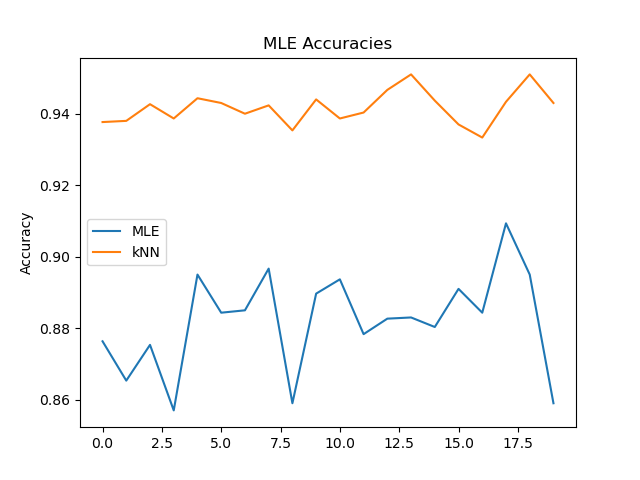
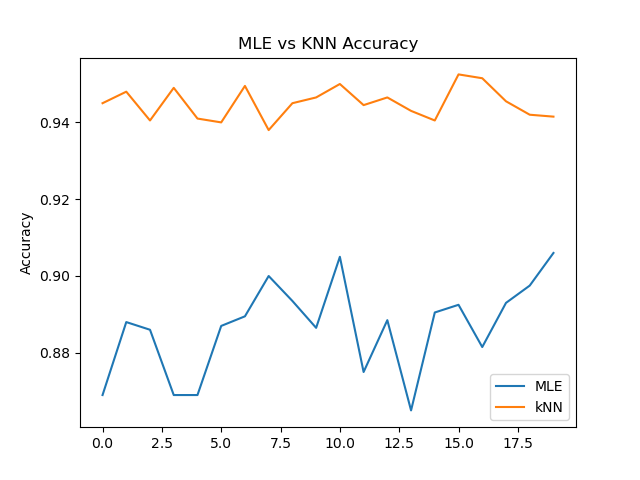
Final changes to project 1

diff --git a/project_1/kNN.py b/project_1/kNN.py
@@ -1,17 +1,27 @@
-import math
+#from scipy.spatial import distance
+#Scipy distance is roughly twice as slow as numpy norm
 import numpy as np
+import math
 from utils import getData
 from tqdm import tqdm
 
-def runKNN(k, norm=np.linalg.norm):
+def runKNN(k, norm='l2'):
     X, Y = getData()
-    Xtrain = X[:7000]
-    Ytrain = Y[:7000]
-    Xtest = X[7000:]
-    Ytest = Y[7000:]
+    Xtrain = X[:8000]
+    Ytrain = Y[:8000]
+    Xtest = X[8000:]
+    Ytest = Y[8000:]
+
+    description = "KNN "
+    if (norm == 'l2'):
+        description += " (L2)"
+    elif (norm == 'l1'):
+        description += " (L1)"
+    elif (norm == 'inf'):
+        description += " (L-inf)"
 
     acc = 0
-    for i in tqdm(range(len(Xtest)), leave=False, desc="kNN"):
+    for i in tqdm(range(len(Xtest)), leave=False, desc=description):
         ypred = getAssignment(Xtest[i], k, Xtrain, Ytrain, norm)
         if (ypred == Ytest[i]):
             acc += 1
@@ -24,14 +34,21 @@ def getAssignment(x, k, Xtrain, Ytrain, norm):
     kBest = np.zeros(k, dtype='int64')
     
     test = 0
-    tempN = 10000*np.ones((k,2))
+    tempN = math.inf*np.ones((k,2))
     for j in range(len(Xtrain)):
-        d = norm(Xtrain[j]-x)
+        #Calculate d based on norm input
+        d=0
+        if (norm=='l1'):
+            d=np.linalg.norm(Xtrain[j]-x, ord=1)
+        elif (norm=='l2'):
+            d=np.linalg.norm(Xtrain[j]-x)
+        elif (norm=='inf'):
+            d=np.linalg.norm(Xtrain[j]-x, ord=math.inf)
 
         #Update array of distances/values if new better value found
         if (d<tempN[k-1,0]):
             #Make new array
-            tempA = 10000*np.ones((k+1,2))
+            tempA = math.inf*np.ones((k+1,2))
             for i in range(k):
                 tempA[i] = tempN[i]
             tempA[k,0] = d
@@ -52,5 +69,5 @@ def getAssignment(x, k, Xtrain, Ytrain, norm):
     return assignment
 
 if __name__ == "__main__":
-    acc = runKNN(4)
+    acc = runKNN(3, norm='l1')
     print(acc)

diff --git a/project_1/main2.py b/project_1/main2.py
@@ -1,0 +1,51 @@
+import matplotlib.pyplot as plt
+import matplotlib
+import MLE
+import kNN
+from tqdm import tqdm
+import numpy as np
+
+matplotlib.use('Agg')
+
+runs = 15
+
+#meanMLEacc = 0
+meanL1acc = 0
+meanL2acc = 0
+meanLINFacc = 0
+
+#MLEacc = np.zeros(runs)
+L1acc = np.zeros(runs)
+L2acc = np.zeros(runs)
+LINFacc = np.zeros(runs)
+
+for i in tqdm(range(runs)):
+    #MLEacc = MLE.runMLE()
+    L1acc[i] = kNN.runKNN(3, norm='l1')
+    L2acc[i] = kNN.runKNN(3)
+    LINFacc[i] = kNN.runKNN(3, norm='inf')
+
+    #meanMLEacc = meanMLEacc + MLEacc[i]
+    meanL1acc = meanL1acc + L1acc[i]
+    meanL2acc = meanL2acc + L2acc[i]
+    meanLINFacc = meanLINFacc + LINFacc[i]
+
+#meanMLEacc = meanMLEacc/runs
+meanL1acc = meanL1acc/runs
+meanL2acc = meanL2acc/runs
+meanLINFacc = meanLINFacc/runs
+
+#print("Average MLE Accuracy: ", meanMLEacc)
+print("Average kNN Accuracy (L1): ", meanL1acc)
+print("Average kNN Accuracy (L2): ", meanL2acc)
+print("Average kNN Accuracy (L-inf): ", meanLINFacc)
+
+x = np.arange(runs)
+#plt.plot(x, MLEacc, label='MLE')
+plt.plot(x, L1acc, label='L1')
+plt.plot(x, L2acc, label='L2')
+plt.plot(x, LINFacc, label='L-inf')
+plt.ylabel('Accuracy')
+plt.title("KNN Accuracies")
+plt.legend()
+plt.savefig('Stats2.png')

diff --git a/project_1/MLE.py b/project_1/MLE.py
@@ -54,7 +54,7 @@ def getPriors(Y):
 def getConditionals(X,Y):
     means = np.zeros((10, np.shape(X[1])[0]))
     covs = np.zeros((10,np.shape(X[1])[0],np.shape(X[1])[0]))
-    for i in range(10):
+    for i in tqdm(range(10), leave=False, desc='MLE'):
         means[i], covs[i] = kConditional(X,Y,i)
     
     return means, covs
@@ -87,10 +87,10 @@ def kConditional(X,Y,k):
 def runMLE():
     #Train on 8000, test on 2000
     X, Y = getData()
-    Xtrain = X[:7000]
-    Ytrain = Y[:7000]
-    Xtest = X[7000:]
-    Ytest = Y[7000:]
+    Xtrain = X[:8000]
+    Ytrain = Y[:8000]
+    Xtest = X[8000:]
+    Ytest = Y[8000:]
 
     means, covs = getConditionals(Xtrain,Ytrain)
     priors = getPriors(Ytrain)
@@ -98,7 +98,7 @@ def runMLE():
     acc = 0
 
     Probs = np.zeros((10,len(Xtest)))
-    for j in tqdm(range(10), leave=False, desc='MLE'):
+    for j in range(10):
         #Fix for non-invertible matrices
         A = covs[j]
         A = A + .01*np.identity(np.shape(covs[j])[0])

diff --git a/project_1/main.py b/project_1/main.py
@@ -11,11 +11,13 @@ runs = 20
 
 meanMLEacc = 0
 meanKNNacc = 0
+
 MLEacc = np.zeros(runs)
 KNNacc = np.zeros(runs)
+
 for i in tqdm(range(runs)):
     MLEacc[i] = MLE.runMLE()
-    KNNacc[i] = kNN.runKNN(4)
+    KNNacc[i] = kNN.runKNN(3)
     meanMLEacc = meanMLEacc + MLEacc[i]
     meanKNNacc = meanKNNacc + KNNacc[i]
 meanMLEacc = meanMLEacc/runs
@@ -28,6 +30,6 @@ x = np.arange(runs)
 plt.plot(x, MLEacc, label='MLE')
 plt.plot(x, KNNacc, label='kNN')
 plt.ylabel('Accuracy')
-plt.title("MLE Accuracies")
+plt.title("MLE vs KNN Accuracy")
 plt.legend()
 plt.savefig('Stats.png')
